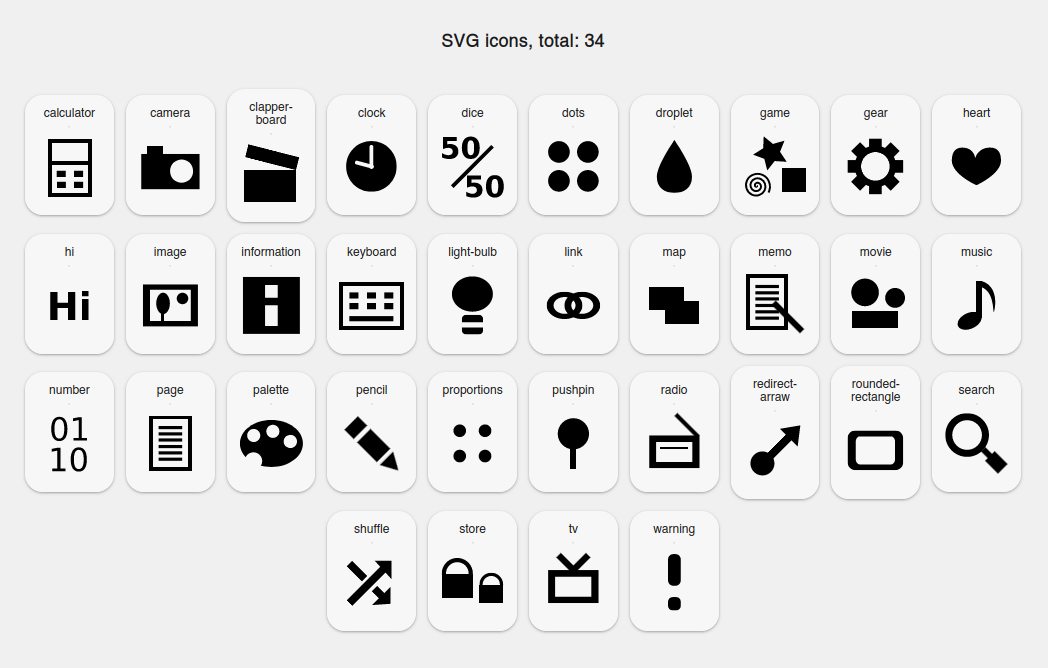
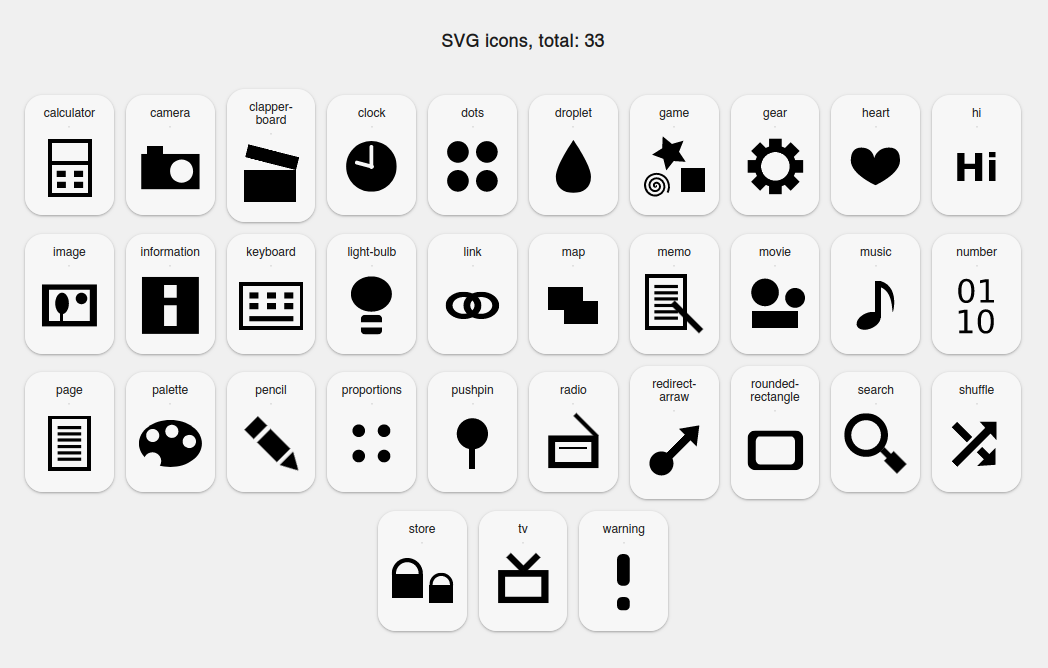
update

diff --git a/data/iconsJsonVar.js b/data/iconsJsonVar.js
@@ -69,21 +69,6 @@ var iconsJsonVar =
 `,
 },
 {
-"text": `dice`,
-"text2": `<svg width="512" height="512" version="1.1" viewBox="0 0 135.47 135.47" xmlns="http://www.w3.org/2000/svg">
- <rect transform="rotate(45)" x="92.887" y="-58.469" width="5.8094" height="116.94" stroke="#000" stroke-width="2.1283"/>
- <g transform="matrix(.43126 0 0 .43126 -31.112 -50.805)" style="shape-inside:url(#rect6817);white-space:pre" aria-label="50">
-  <path d="m86.271 131.97h67.289v19.898h-45.703v16.242q3.0938-0.84375 6.1875-1.2656 3.1641-0.49219 6.5391-0.49219 19.195 0 29.883 9.6328 10.688 9.5625 10.688 26.719 0 17.016-11.672 26.648-11.602 9.6328-32.273 9.6328-8.9297 0-17.719-1.7578-8.7188-1.6875-17.367-5.2031v-21.305q8.5781 4.9219 16.242 7.3828 7.7344 2.4609 14.555 2.4609 9.8438 0 15.469-4.7812 5.6953-4.8516 5.6953-13.078 0-8.2969-5.6953-13.078-5.625-4.7812-15.469-4.7812-5.8359 0-12.445 1.5469-6.6094 1.4766-14.203 4.6406z"/>
-  <path d="m237.44 184.35q0-19.688-3.7266-27.703-3.6562-8.0859-12.375-8.0859t-12.445 8.0859q-3.7266 8.0156-3.7266 27.703 0 19.898 3.7266 28.055 3.7266 8.1562 12.445 8.1562 8.6484 0 12.375-8.1562 3.7266-8.1562 3.7266-28.055zm27.07 0.21094q0 26.086-11.25 40.289-11.25 14.133-31.922 14.133-20.742 0-31.992-14.133-11.25-14.203-11.25-40.289 0-26.156 11.25-40.289 11.25-14.203 31.992-14.203 20.672 0 31.922 14.203 11.25 14.133 11.25 40.289z"/>
- </g>
- <g transform="matrix(.43126 0 0 .43126 19.285 29.858)" style="shape-inside:url(#rect6817-8);white-space:pre" aria-label="50">
-  <path d="m86.271 131.97h67.289v19.898h-45.703v16.242q3.0938-0.84375 6.1875-1.2656 3.1641-0.49219 6.5391-0.49219 19.195 0 29.883 9.6328 10.688 9.5625 10.688 26.719 0 17.016-11.672 26.648-11.602 9.6328-32.273 9.6328-8.9297 0-17.719-1.7578-8.7188-1.6875-17.367-5.2031v-21.305q8.5781 4.9219 16.242 7.3828 7.7344 2.4609 14.555 2.4609 9.8438 0 15.469-4.7812 5.6953-4.8516 5.6953-13.078 0-8.2969-5.6953-13.078-5.625-4.7812-15.469-4.7812-5.8359 0-12.445 1.5469-6.6094 1.4766-14.203 4.6406z"/>
-  <path d="m237.44 184.35q0-19.688-3.7266-27.703-3.6562-8.0859-12.375-8.0859t-12.445 8.0859q-3.7266 8.0156-3.7266 27.703 0 19.898 3.7266 28.055 3.7266 8.1562 12.445 8.1562 8.6484 0 12.375-8.1562 3.7266-8.1562 3.7266-28.055zm27.07 0.21094q0 26.086-11.25 40.289-11.25 14.133-31.922 14.133-20.742 0-31.992-14.133-11.25-14.203-11.25-40.289 0-26.156 11.25-40.289 11.25-14.203 31.992-14.203 20.672 0 31.922 14.203 11.25 14.133 11.25 40.289z"/>
- </g>
-</svg>
-`,
-},
-{
 "text": `dots`,
 "text2": `<?xml version="1.0" encoding="UTF-8"?>
 <svg width="512" height="512" version="1.1" viewBox="0 0 135.47 135.47" xmlns="http://www.w3.org/2000/svg">

diff --git a/icons-page.html b/icons-page.html
@@ -178,20 +178,6 @@
 <!-- post -->
 <div class="bgList borderList post" id="">
 
-<div class="pre paddingList">Dice <a class="brand" href="./icons-data/dice.svg">./icons-data/dice.svg</a><br><a href="./icons-data/dice.svg"><img class="img border" src="./icons-data/dice.svg"></a></div>
-
-<div class="postFooter small break2">
-<div class="tagList tLeft left"></div>
-<div class="tagList tRight right">id</div>
-</div>
-
-</div>
-<!-- // post -->
-
-
-<!-- post -->
-<div class="bgList borderList post" id="">
-
 <div class="pre paddingList">Dots <a class="brand" href="./icons-data/dots.svg">./icons-data/dots.svg</a><br><a href="./icons-data/dots.svg"><img class="img border" src="./icons-data/dots.svg"></a></div>
 
 <div class="postFooter small break2">
@@ -694,13 +680,6 @@ var blogJsonVar = [
         "text": "Movie ",
         "url": ".\/icons-data\/movie.svg",
         "tag": " #movie",
-        "time": "id"
-    },
-    {
-        "id": "96246803b3de8ff51b650235d2f4b862",
-        "text": "Dice ",
-        "url": ".\/icons-data\/dice.svg",
-        "tag": " #dice",
         "time": "id"
     },
     {

diff --git a/sw.js b/sw.js
@@ -350,7 +350,6 @@ var fileListArr = ["/404.html",
 "/icons-data/camera.svg",
 "/icons-data/clapper-board.svg",
 "/icons-data/clock.svg",
-"/icons-data/dice.svg",
 "/icons-data/dots.svg",
 "/icons-data/droplet.svg",
 "/icons-data/game.svg",
